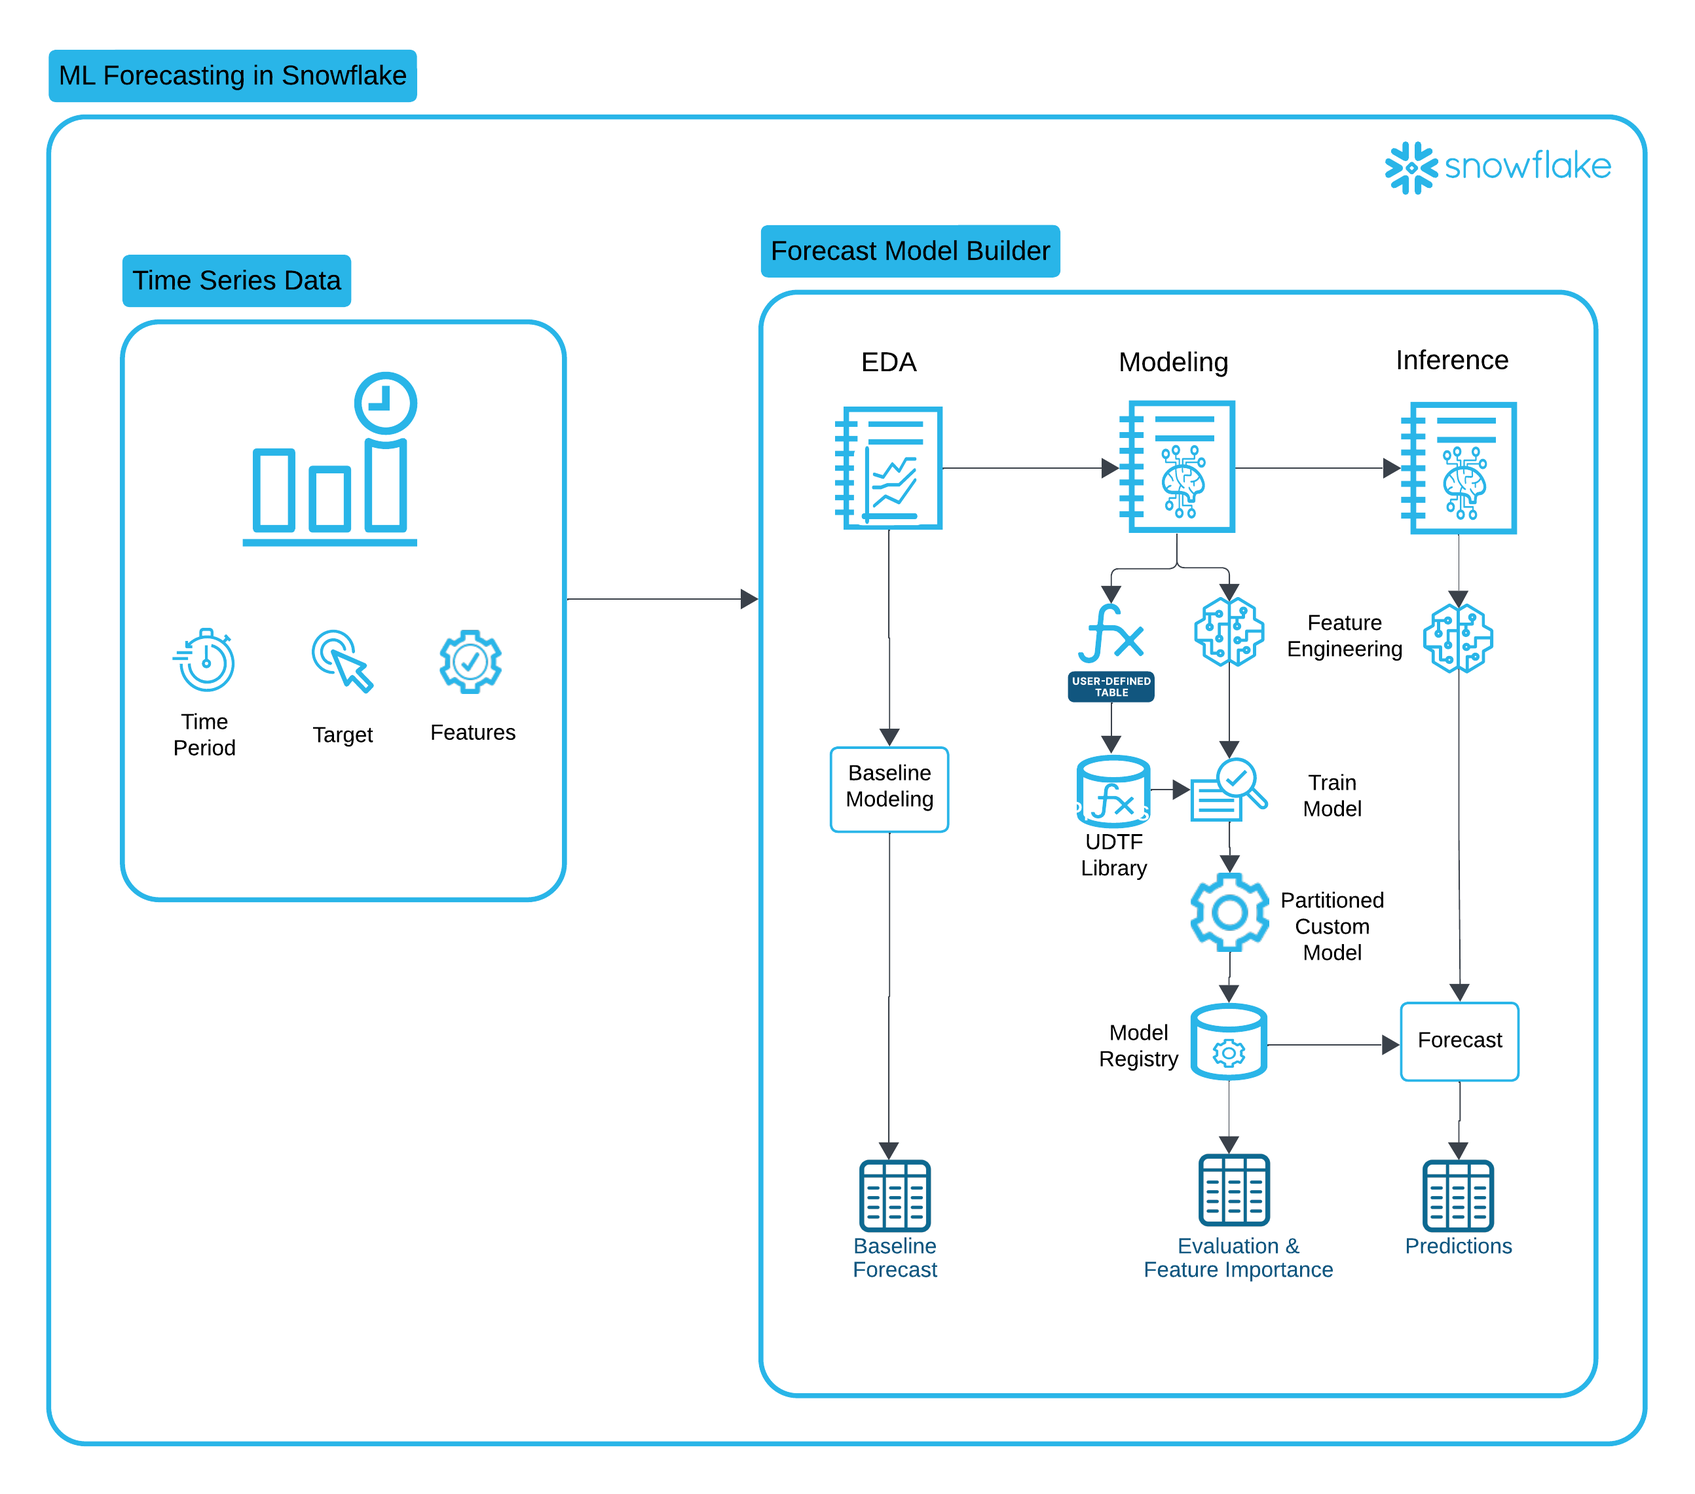
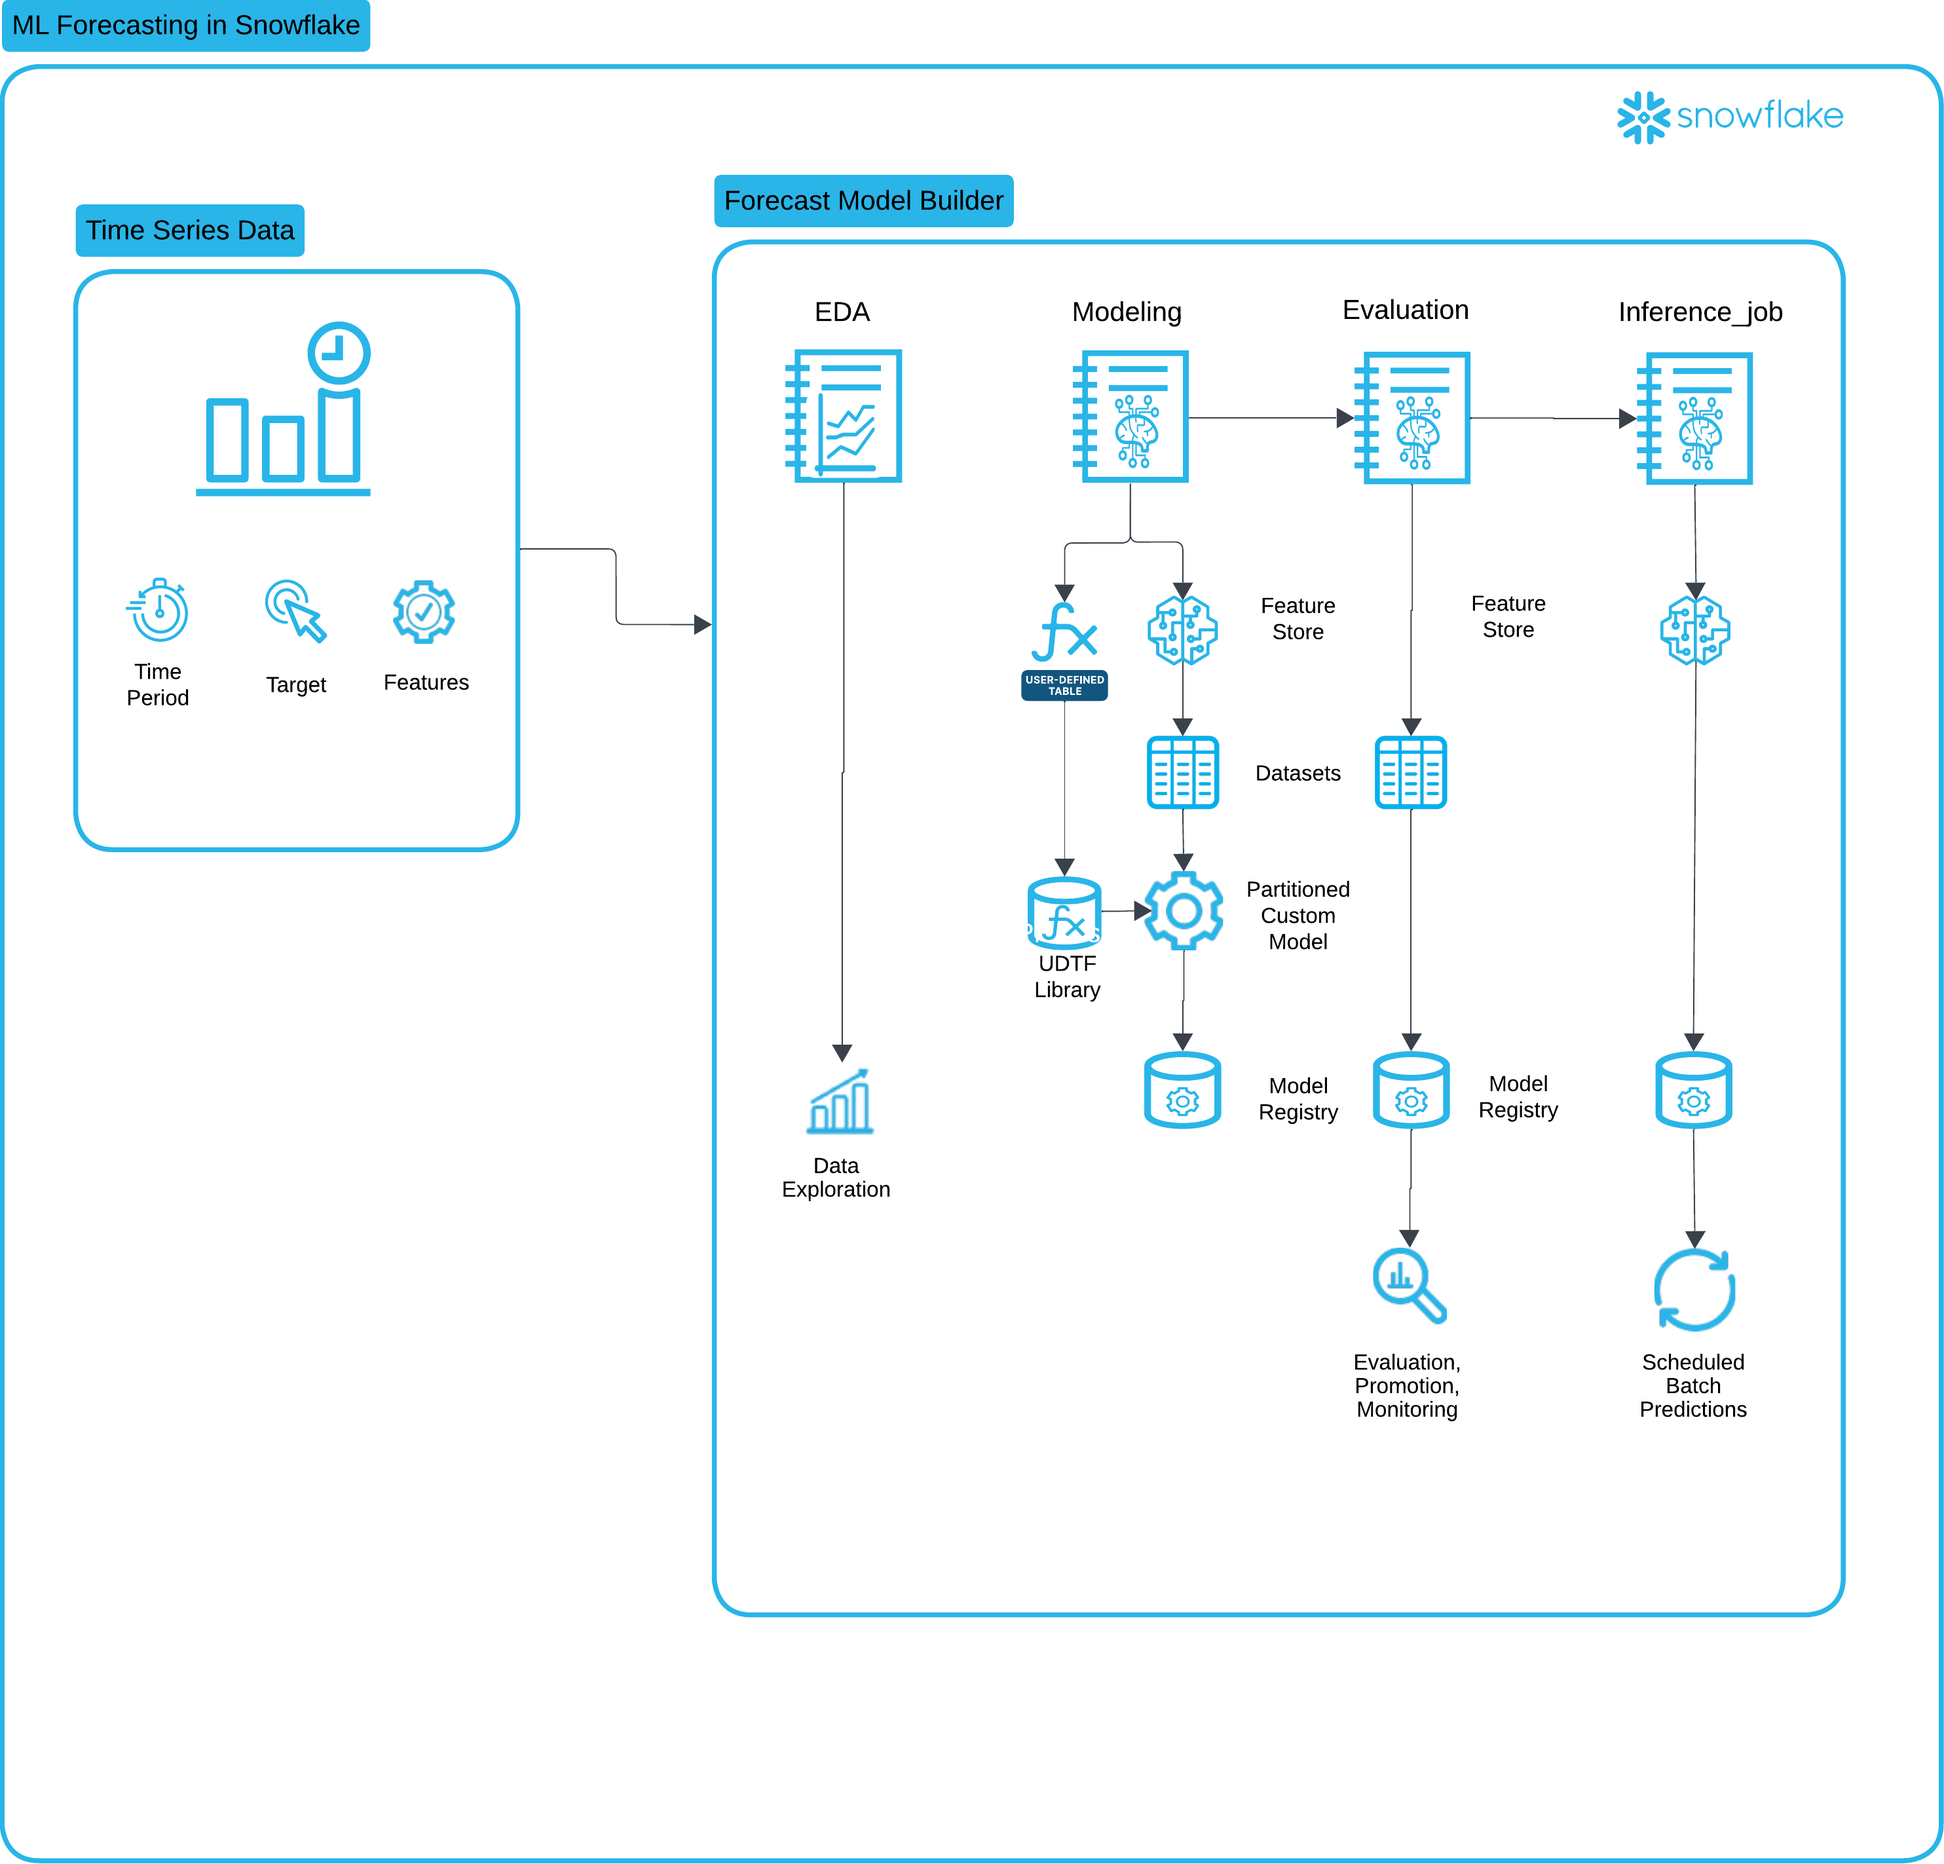
updates to forecast model builder to align with changes to code repo

diff --git a/site/sfguides/src/building_scalable_time_series_forecasting_models_on_snowflake/forecast_model_builder.md b/site/sfguides/src/building_scalable_time_series_forecasting_models_on_snowflake/forecast_model_builder.md
@@ -14,7 +14,7 @@ Duration: 1
 
 Forecasting is a business process that predicts future events over time based on historical time-series data, and has cross-industry applicability and utility in nearly every organization. Multiple business units can benefit from this modelling technique to more accurately predict performance, demand, or or any activity that can lead to improved business reactivity and optimization.
 
-The Forecast Model Builder accelerates time to value by offering modeling flexibility, a low code environment, and automated model deployment through Snowflake Model Registry. This solution walks through a complete time series forecasting workflow, from Exploratory Data Analysis (EDA) to model training, and finally batch inference in Snowflake. By leveraging XGBoost, Snowpark, and Snowflake’s Model Registry, we create a scalable and efficient forecasting solution.
+The Forecast Model Builder accelerates time to value by offering modeling flexibility, a low code environment, and automated model deployment through Snowflake Model Registry. This solution walks through a complete time series forecasting workflow, from Exploratory Data Analysis (EDA) to model training, and finally batch inference and evaluation in Snowflake. By leveraging XGBoost, Snowpark, and Snowflake’s Model Registry, we create a scalable and efficient forecasting solution.
 
 ![App](assets/highlevelarch.png)
 
@@ -42,6 +42,10 @@ This guide will walk you through the process of:
 This solution leverages several key Snowflake features:
 
 - [**Snowflake Notebooks**](https://docs.snowflake.com/en/user-guide/ui-snowsight/notebooks) is a unified development interface in Snowsight that offers an interactive, cell-based programming environment for Python, SQL, and Markdown. In Snowflake Notebooks, you can leverage your Snowflake data to perform exploratory data analysis, develop machine learning models, and perform other data science and data engineering workflows, all within the same interface.
+
+- [**Snowflake Feature Store**](https://docs.snowflake.com/en/developer-guide/snowflake-ml/feature-store/overview): Feature Transformations are standardized and centralized into the Feature Store, ensuring that features used for training, evaluation, and inference are consistent and fresh.
+
+- [**Snowflake Datasetse**](https://docs.snowflake.com/en/developer-guide/snowflake-ml/dataset): Datasets are Snowflake schema-level objects specifically designed for machine learning workflows. Snowflake Datasets hold collections of data organized into versions. Each version holds a materialized snapshot of your data with guaranteed immutability, efficient data access, and interoperability with popular deep learning frameworks.
 
 - [**Snowflake Model Registry**](https://docs.snowflake.com/en/developer-guide/snowflake-ml/model-registry/overview): After training a model, operationalizing the model and running inference in Snowflake starts with logging the model in the Snowflake Model Registry. The Model Registry lets you securely manage models and their metadata in Snowflake, regardless of origin and type, and makes running inference easy. 
 
@@ -113,11 +117,11 @@ Duration: 4
 In this notebook, we explore a **partitioned time series modeling approach** using **XGBoost** and **Snowflake's Snowpark**, enabling efficient and scalable forecasting for large datasets.
 
 **Key Highlights**
-- **Feature Engineering for Time Series**  This notebook applies various transformations, including rolling averages, date-based feature expansion, and aggregations to enhance predictive power.  
+- **Feature Engineering for Time Series**  This notebook applies various transformations, including rolling averages, date-based feature expansion, and aggregations to enhance predictive power. These features are then registered in the schema level **Snowflake Feature Store**.
 
 - **Snowflake Integration** Leveraging **Snowpark DataFrames**, we ensure seamless data processing within Snowflake’s environment, reducing the need for external data movement.  
 
-- **XGBoost for Forecasting** The model is trained using **XGBoost**, a powerful gradient boosting algorithm, with hyperparameter tuning and evaluation.  
+- **XGBoost for Forecasting** The model is trained using **XGBoost**, a powerful gradient boosting algorithm.
 
 - **Efficient Model Deployment**  The workflow includes exporting trained models and registering them in **Snowflake’s Model Registry** for scalable inference.  
 
@@ -131,28 +135,53 @@ To run the Feature Engineering and Advanced Modeling Notebook:
 4) Follow the instructions provided in the each notebook cell.
 
 <!-- ------------------------ -->
-## Inferencing
+## Evaluation
 Duration: 4
 
-This notebook is designed to perform **inference** using the trained time series model from the modeling pipeline. It leverages **Snowflake's Snowpark** environment to efficiently make predictions on new data, ensuring seamless integration between model training and deployment.
+This notebook is designed to perform **inference and evaluation** using the trained time series model from the modeling pipeline. It leverages **Snowflake's Snowpark** environment to efficiently make predictions on new data, ensuring seamless integration between model training and deployment.
 
 **Key Highlights**
 - **Model Deployment & Inference** Uses a pre-trained model from the **Snowflake Model Registry** to generate forecasts on fresh time series data.  
 
-- **Feature Engineering for Predictions** Applies time-based transformations, including rolling averages and datetime feature expansion, to maintain consistency between training and inference.  
-
 - **Snowflake-Powered Data Processing** Processes large-scale inference data directly within Snowflake, leveraging Snowpark's **distributed computing capabilities** to avoid unnecessary data movement.  
 
-- **Efficient Forecast Storage** Saves inference results into a dedicated Snowflake table, ensuring that forecasts are readily available for downstream analysis and business applications.  
+- **Visualize Model Performance with Streamlit** Plots performance metrics for the overall model and individual partitions, allowing efficient drill-down into model evaluation.
 
-By the end of this notebook, you'll have a scalable and efficient pipeline for time series inference, enabling real-time and batch forecasting within Snowflake’s powerful data ecosystem.
+- **Promote Model and Create Model Monitor** Track model performance over time as scheduled inference populates the results table.
+
+By the end of this notebook, you'll have a clear understanding of your models performance, giving you confidence to promote it to production and run inference.
 ___
 
-To run the Inferencing Notebook:
+To run the Evaluation Notebook:
 1) Go to Projects > Notebooks in Snowsight. 
-2) Open the notebook <YOUR_PROJECT_NAME>_INFERENCE.
+2) Open the notebook <YOUR_PROJECT_NAME>_EVALUATION.
 3) Switch to Container Runtime.
 4) Follow the instructions provided in the each notebook cell.
+
+<!-- ------------------------ -->
+## Inference_job
+Duration: 4
+
+This notebook is designed to perform **scheduled inference** using the trained time series model from the modeling pipeline. It leverages **Snowflake's Snowpark** environment to efficiently identify new records for inference and generate predictions, populating the results table. 
+
+**Key Highlights**
+- **Model Deployment & Inference** Uses a pre-trained model from the **Snowflake Model Registry** to generate forecasts on fresh time series data.  
+
+- **Snowflake-Powered Data Processing** Identifies new data for inference and generates predictions, leveraging Snowpark's **distributed computing capabilities** to avoid unnecessary data movement.  
+
+- **Efficient Forecast Storage** Saves inference results into a dedicated Snowflake table, ensuring that forecasts are readily available for downstream analysis and business applications.
+
+- **Scheduled Inference** Easily schedule the notebook as a recurring job to automate forecasting.
+
+By the end of this notebook, you'll have a scalable and efficient pipeline for time series inference, enabling forecasting within Snowflake’s powerful data ecosystem.
+___
+
+To run the Evaluation Notebook:
+1) Go to Projects > Notebooks in Snowsight. 
+2) Open the notebook <YOUR_PROJECT_NAME>_INFERENCE_JOB.
+3) Switch to Container Runtime.
+4) Follow the instructions provided in the each notebook cell.
+5) To schedule recurring inference, use the notebook scheduling button next to "Run All".
 
 <!-- ------------------------ -->
 ## Conclusion And Resources
@@ -177,10 +206,11 @@ After completing all the notebooks in this series, a user has gained a **compreh
 - Leveraging **Snowpark** for large-scale, in-database model training  
 - Evaluating model accuracy and performance  
 
-**4. Deploying and Running Forecast Inference**
-- Loading a trained model and applying it to new data  
+**4. Evaluating Forecast Results**
+- Loading a trained model and applying it to validation data  
 - Ensuring consistency between **training and inference pipelines**  
-- Storing predictions in **Snowflake tables** for real-time access  
+- Storing predictions in **Snowflake tables** for real-time access 
+- Visualizing forecast model performance 
 
 By following this workflow, a user is now equipped with the knowledge to build, deploy, and scale time series forecasting models efficiently within Snowflake, enabling data-driven decision-making in real-world business scenarios. 🚀
 
